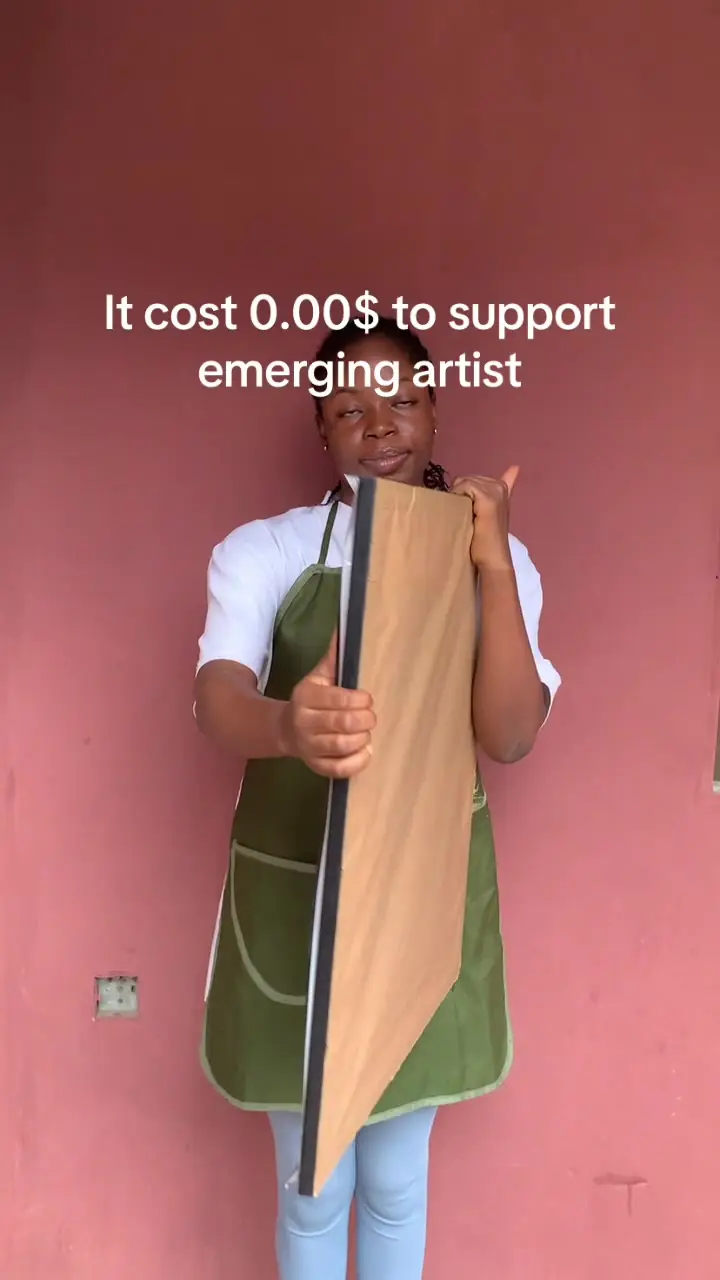
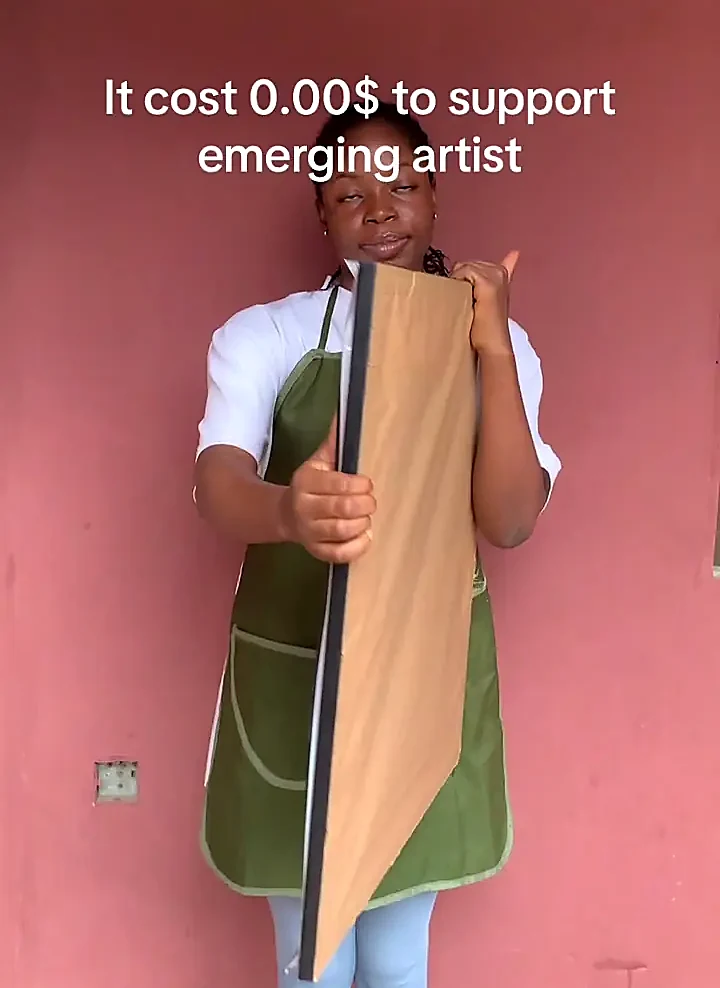
Restyle stitch films as studio stills
Crop TikTok chrome off the real frames, drop the dim player overlay,
and move play into a small corner mark so the cards read as stills.

diff --git a/src/styles.css b/src/styles.css
@@ -480,10 +480,10 @@
     position: relative;
     display: block;
     overflow: hidden;
-    aspect-ratio: 3 / 4;
-    max-height: 28rem;
+    aspect-ratio: 4 / 5;
     background: var(--color-void);
     color: var(--color-foam);
+    box-shadow: inset 0 0 0 1px color-mix(in srgb, var(--color-ink) 18%, transparent);
   }
 
   .film-poster {
@@ -492,37 +492,31 @@
     width: 100%;
     height: 100%;
     object-fit: cover;
-    transform: scale(1.02);
-    transition: transform 1.1s var(--ease-out-expo), filter 500ms ease;
+    object-position: center 18%;
+    transition: transform 1.1s var(--ease-out-expo);
   }
 
   .film-frame:hover .film-poster {
-    transform: scale(1.08);
-    filter: brightness(1.06);
+    transform: scale(1.04);
   }
 
   .film-play {
     position: absolute;
-    inset: 0;
+    inset: auto auto 1rem 1rem;
     z-index: 1;
     display: grid;
+    width: 44px;
+    height: 44px;
     place-items: center;
-    background: color-mix(in srgb, var(--color-void) 28%, transparent);
-    transition: background-color 220ms var(--ease-out-expo);
+    border: 1px solid color-mix(in srgb, var(--color-foam) 75%, transparent);
+    background: color-mix(in srgb, var(--color-void) 42%, transparent);
+    color: var(--color-foam);
+    transition: background-color 220ms var(--ease-out-expo), transform 220ms var(--ease-out-expo);
   }
 
   .film-frame:hover .film-play {
-    background: color-mix(in srgb, var(--color-void) 12%, transparent);
-  }
-
-  .film-play span {
-    display: grid;
-    width: 56px;
-    height: 56px;
-    place-items: center;
-    border: 1px solid var(--color-foam);
-    border-radius: 999px;
-    background: color-mix(in srgb, var(--color-void) 35%, transparent);
+    background: color-mix(in srgb, var(--color-void) 62%, transparent);
+    transform: scale(1.06);
   }
 }
 

diff --git a/src/data/studio.ts b/src/data/studio.ts
@@ -97,6 +97,7 @@ export type StitchFilm = {
   embed?: string;
   videoId?: string;
   poster?: string;
+  posterPosition?: string;
 };
 
 export const stitchFilms: StitchFilm[] = [
@@ -128,6 +129,7 @@ export const stitchFilms: StitchFilm[] = [
     href: "https://www.tiktok.com/@dammy017/video/7542423924022299922",
     videoId: "7542423924022299922",
     poster: "/studio/films/showing.webp",
+    posterPosition: "center 12%",
   },
   {
     id: "weave",
@@ -137,6 +139,7 @@ export const stitchFilms: StitchFilm[] = [
     href: "https://www.tiktok.com/@dammy017/video/7526847375445478662",
     videoId: "7526847375445478662",
     poster: "/studio/films/weave.webp",
+    posterPosition: "center center",
   },
 ];
 

diff --git a/src/components/stitch-films.tsx b/src/components/stitch-films.tsx
@@ -12,11 +12,16 @@ function FilmFrame({ film }: { film: StitchFilm }) {
       className="film-frame"
       aria-label={`${t.openFilm}: ${film.title}`}
     >
-      {film.poster ? <img src={film.poster} alt="" className="film-poster" /> : null}
+      {film.poster ? (
+        <img
+          src={film.poster}
+          alt=""
+          className="film-poster"
+          style={film.posterPosition ? { objectPosition: film.posterPosition } : undefined}
+        />
+      ) : null}
       <span className="film-play" aria-hidden="true">
-        <span>
-          <Play size={18} fill="currentColor" />
-        </span>
+        <Play size={14} fill="currentColor" />
       </span>
     </a>
   );
